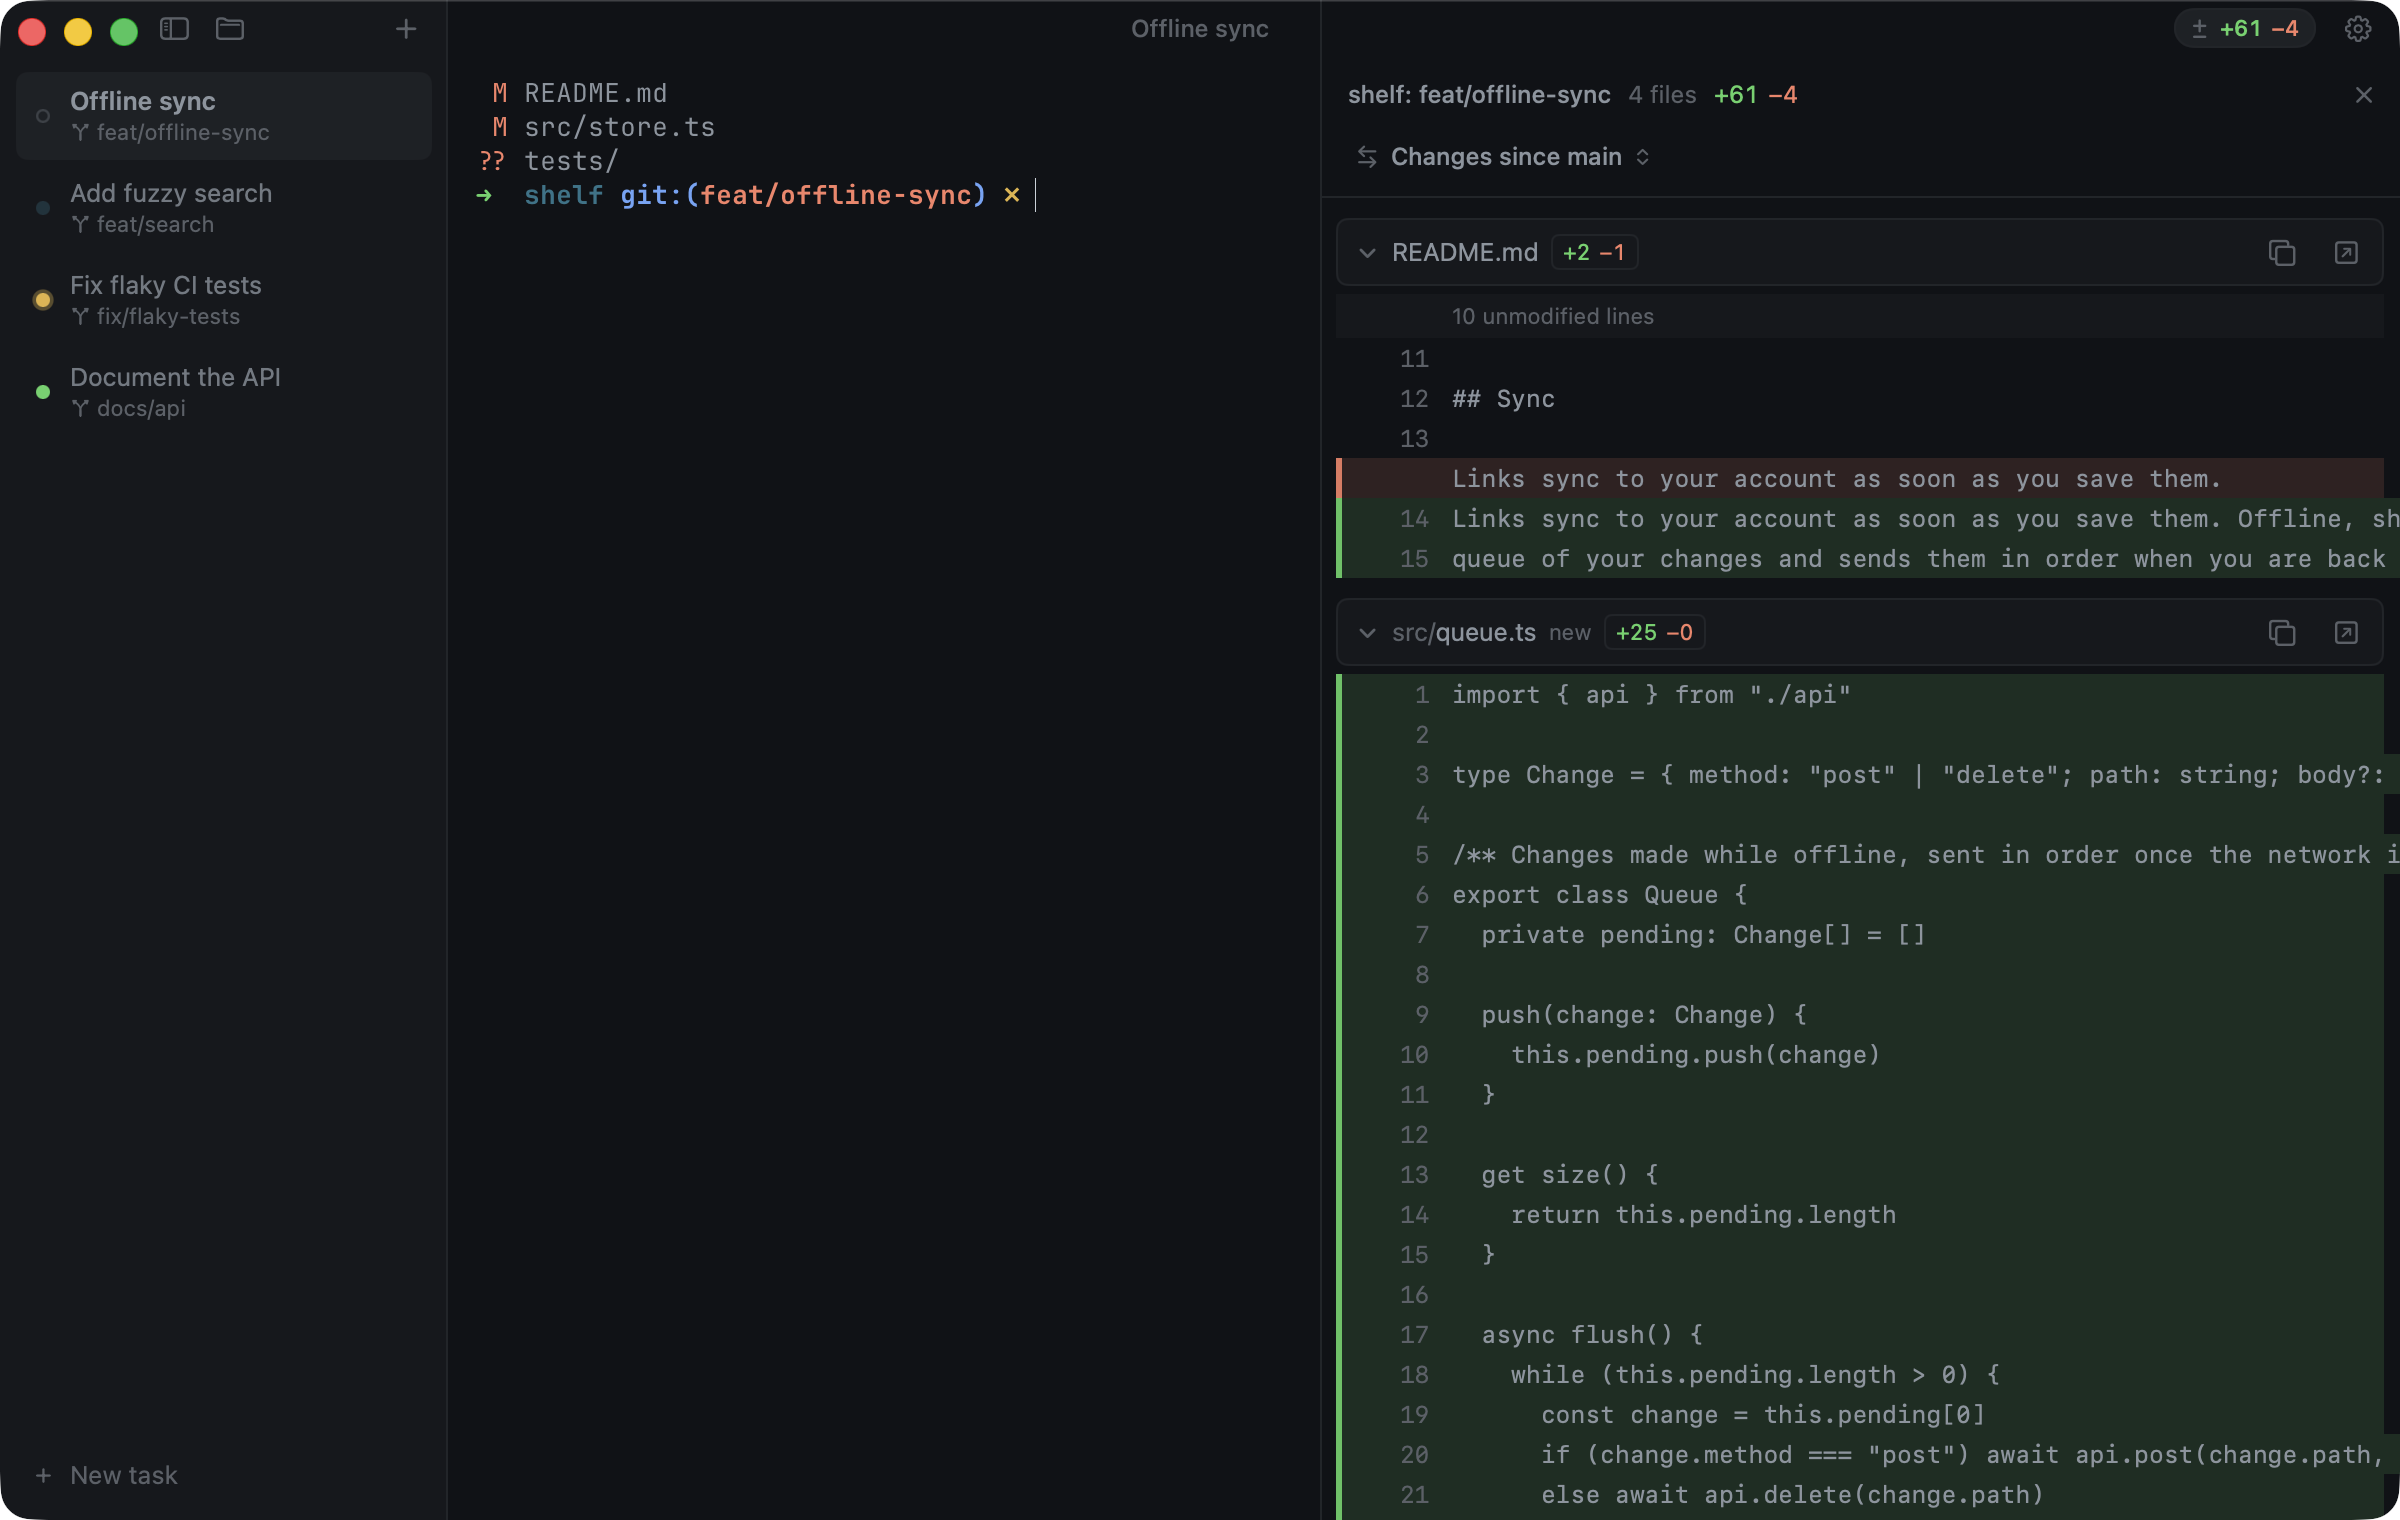
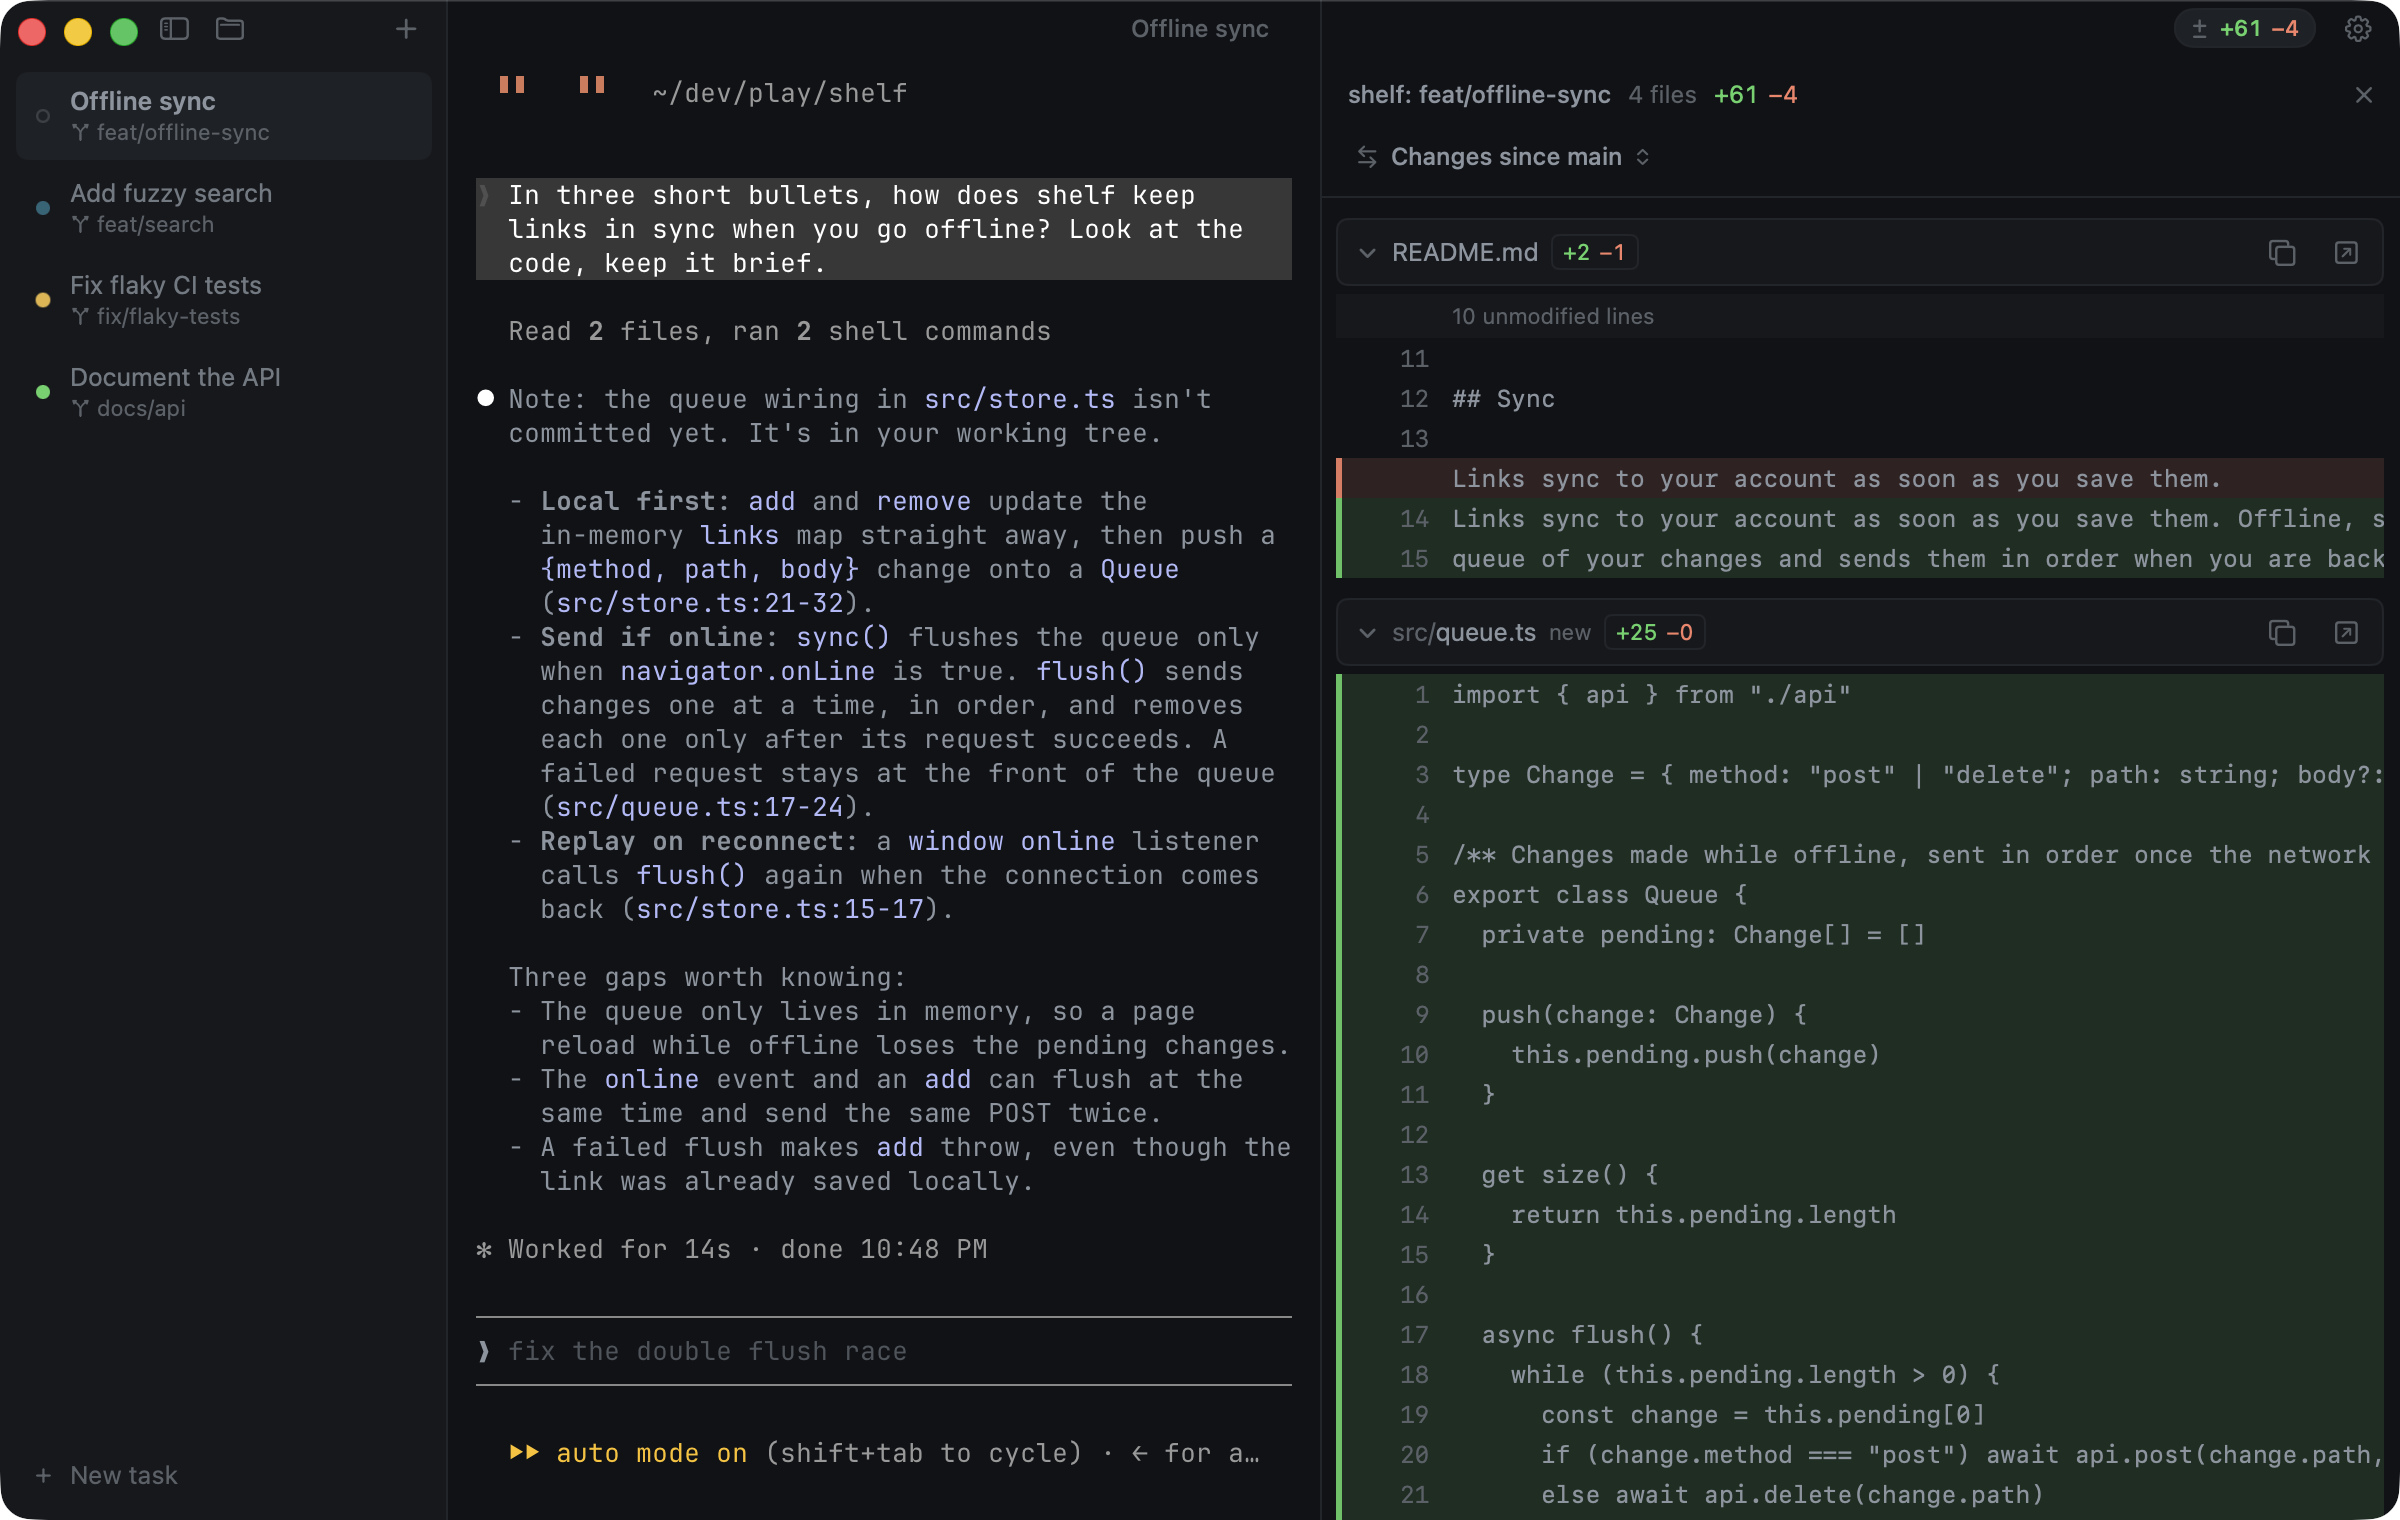
docs: a simple hero screenshot and a second one for the review panel

diff --git a/site/index.html b/site/index.html
@@ -7,7 +7,7 @@
   <meta name="description" content="A fast macOS terminal for working with coding agents. Built on libghostty.">
   <meta property="og:title" content="Farol">
   <meta property="og:description" content="A fast macOS terminal for working with coding agents.">
-  <meta property="og:image" content="https://farol.snowztech.com/screenshot-review.png">
+  <meta property="og:image" content="https://farol.snowztech.com/screenshot-sessions.png">
   <meta name="twitter:card" content="summary_large_image">
   <link rel="icon" href="icon.png">
   <link rel="stylesheet" href="https://cdn.jsdelivr.net/npm/@snowztech/ui-css@0.2/dist/snowztech-ui.min.css">
@@ -45,6 +45,9 @@
       background: radial-gradient(ellipse at center, var(--sn-accent-soft), transparent 70%);
       filter: blur(24px);
     }
+    .feature-title { text-align: center; margin: 96px auto 0; }
+    .feature-title h2 { font-weight: 500; margin: 0 0 8px; }
+    .feature-title p { color: var(--sn-fg-muted); margin: 0; }
     .shot {
       position: relative; z-index: 1; display: block; width: 100%; height: auto;
       border-radius: 12px; border: 1px solid var(--sn-border-strong);
@@ -80,8 +83,8 @@
     </section>
 
     <div class="showcase wide">
-      <img class="shot" src="screenshot-review.png" width="2400" height="1520"
-           alt="Farol with agent sessions in the sidebar, one working, one waiting for you and one done, and the review panel showing a branch's changes since main">
+      <img class="shot" src="screenshot-sessions.png" width="2400" height="1520"
+           alt="Farol running Claude Code, with other agent sessions in the sidebar, one working, one waiting for you and one done">
     </div>
 
     <ul class="features wide">
@@ -90,6 +93,15 @@
       <li><b>A task in one step</b><span>Describe it and pick an agent. Farol opens a worktree on a new branch and starts the agent on it.</span></li>
       <li><b>Built on libghostty</b><span>Ghostty's speed, themes and config, in a native Mac app.</span></li>
     </ul>
+
+    <div class="feature-title wide">
+      <h2>Review what the agent did</h2>
+      <p>Every changed file as one diff, next to the terminal. Uncommitted work or everything since main.</p>
+    </div>
+    <div class="showcase wide">
+      <img class="shot" src="screenshot-review.png" width="2400" height="1520" loading="lazy"
+           alt="The review panel next to Claude Code, showing a branch's changes since main as one scrolling diff">
+    </div>
   </main>
 
   <footer>

diff --git a/README.md b/README.md
@@ -14,7 +14,7 @@
     <a href="LICENSE"><img src="https://img.shields.io/badge/License-MIT-green?style=flat" alt="License"></a>
 </p>
 
-<p align="center"><img src="site/screenshot-review.png" width="800" alt="Farol with agent sessions in the sidebar and the review panel showing a branch's changes since main"></p>
+<p align="center"><img src="site/screenshot-sessions.png" width="800" alt="Farol running Claude Code, with other agent sessions in the sidebar, one working, one waiting for you and one done"></p>
 
 Run several coding agents side by side, each in its own session, and Farol shows you which one is working, which one is done and which one needs you. Farol is Portuguese for lighthouse.
 
@@ -45,6 +45,8 @@ It needs a Mac with Apple Silicon and macOS 14 or later. Releases are signed and
 - **Copy and paste, accents and input methods.** Pasting text that could run commands asks first, dead keys compose as you type, and input methods for other languages work at the cursor.
 
 Coming next: a review view for what an agent did, and GitLab, GitHub and Jira integrations. See [ROADMAP.md](ROADMAP.md).
+
+<p align="center"><img src="site/screenshot-review.png" width="800" alt="The review panel next to Claude Code, showing a branch's changes since main as one scrolling diff"></p>
 
 ## Agent status
 
